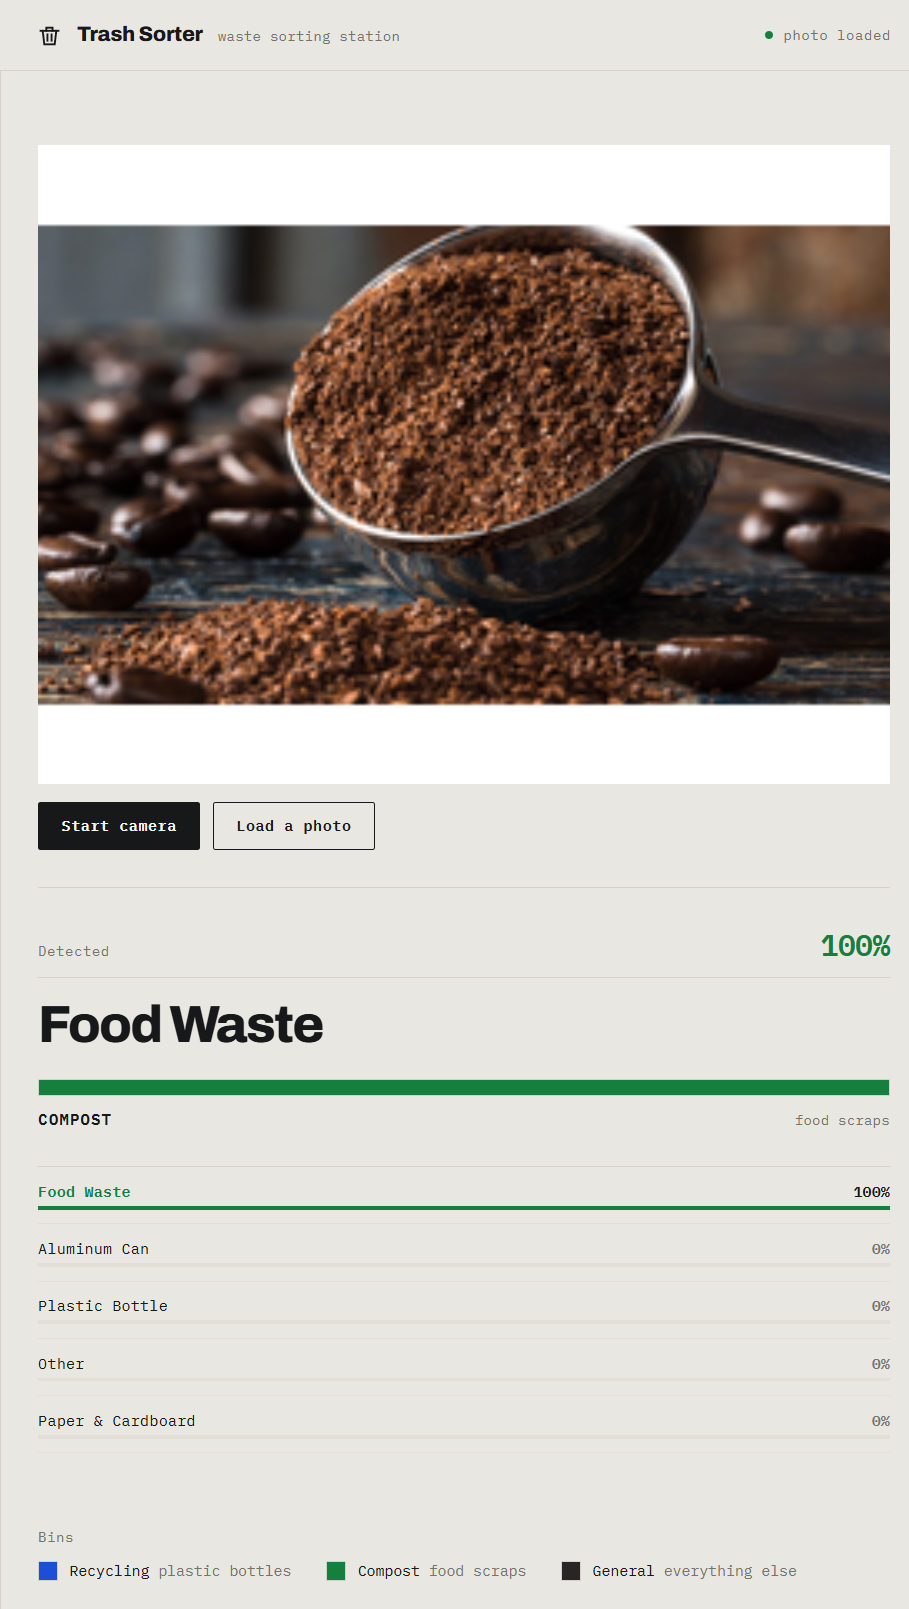
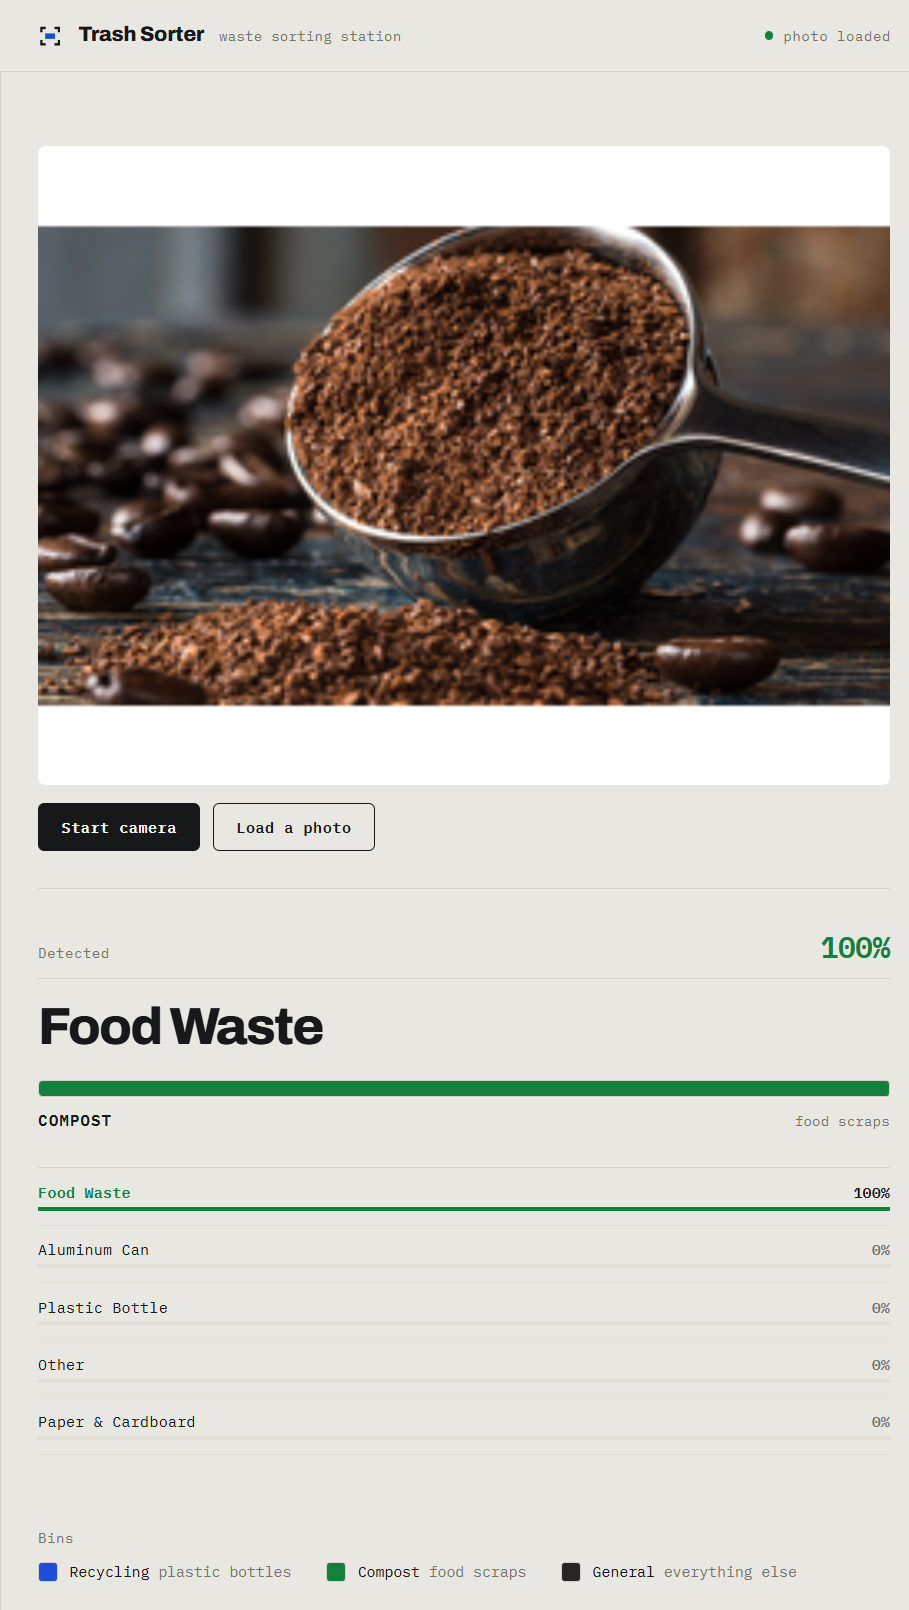
Refresh README screenshots to current design; document mark and accessibility

diff --git a/README.md b/README.md
@@ -32,6 +32,10 @@ the bin it belongs in, the way municipal recycling signage already works, so the
 answer is legible before you finish reading it. The bar under the verdict fills
 to the model's confidence in that class's colour.
 
+The mark is a camera viewfinder with the answer bar inside it — which is a
+literal picture of what this app does: you point a camera at an item, and a
+colour comes back.
+
 <details>
 <summary>More screenshots</summary>
 
@@ -90,7 +94,8 @@ Then open <http://localhost:8000> and allow camera access.
 │   ├── weights.bin
 │   └── metadata.json     class labels + image size
 ├── vendor/               vendored libs and fonts (offline support)
-└── docs/                 screenshots used by this README
+├── docs/                 screenshots used by this README
+└── .gitignore
 ```
 
 ---
@@ -112,6 +117,15 @@ snippet, and the mismatch is silent:
 
 A `<video>` element also cannot decode a still image, so photo mode predicts
 from a canvas at the image's intrinsic size.
+
+## Accessibility notes
+
+- The file input is clipped rather than `hidden`, so it stays keyboard-reachable;
+  focus is drawn on the label that stands in for it.
+- The verdict panel updates about five times a second, so it is **not** itself an
+  `aria-live` region. A separate visually-hidden status element announces only
+  when the winning class actually changes, instead of narrating every frame.
+- `prefers-reduced-motion` disables all transitions.
 
 ## Dataset
 
